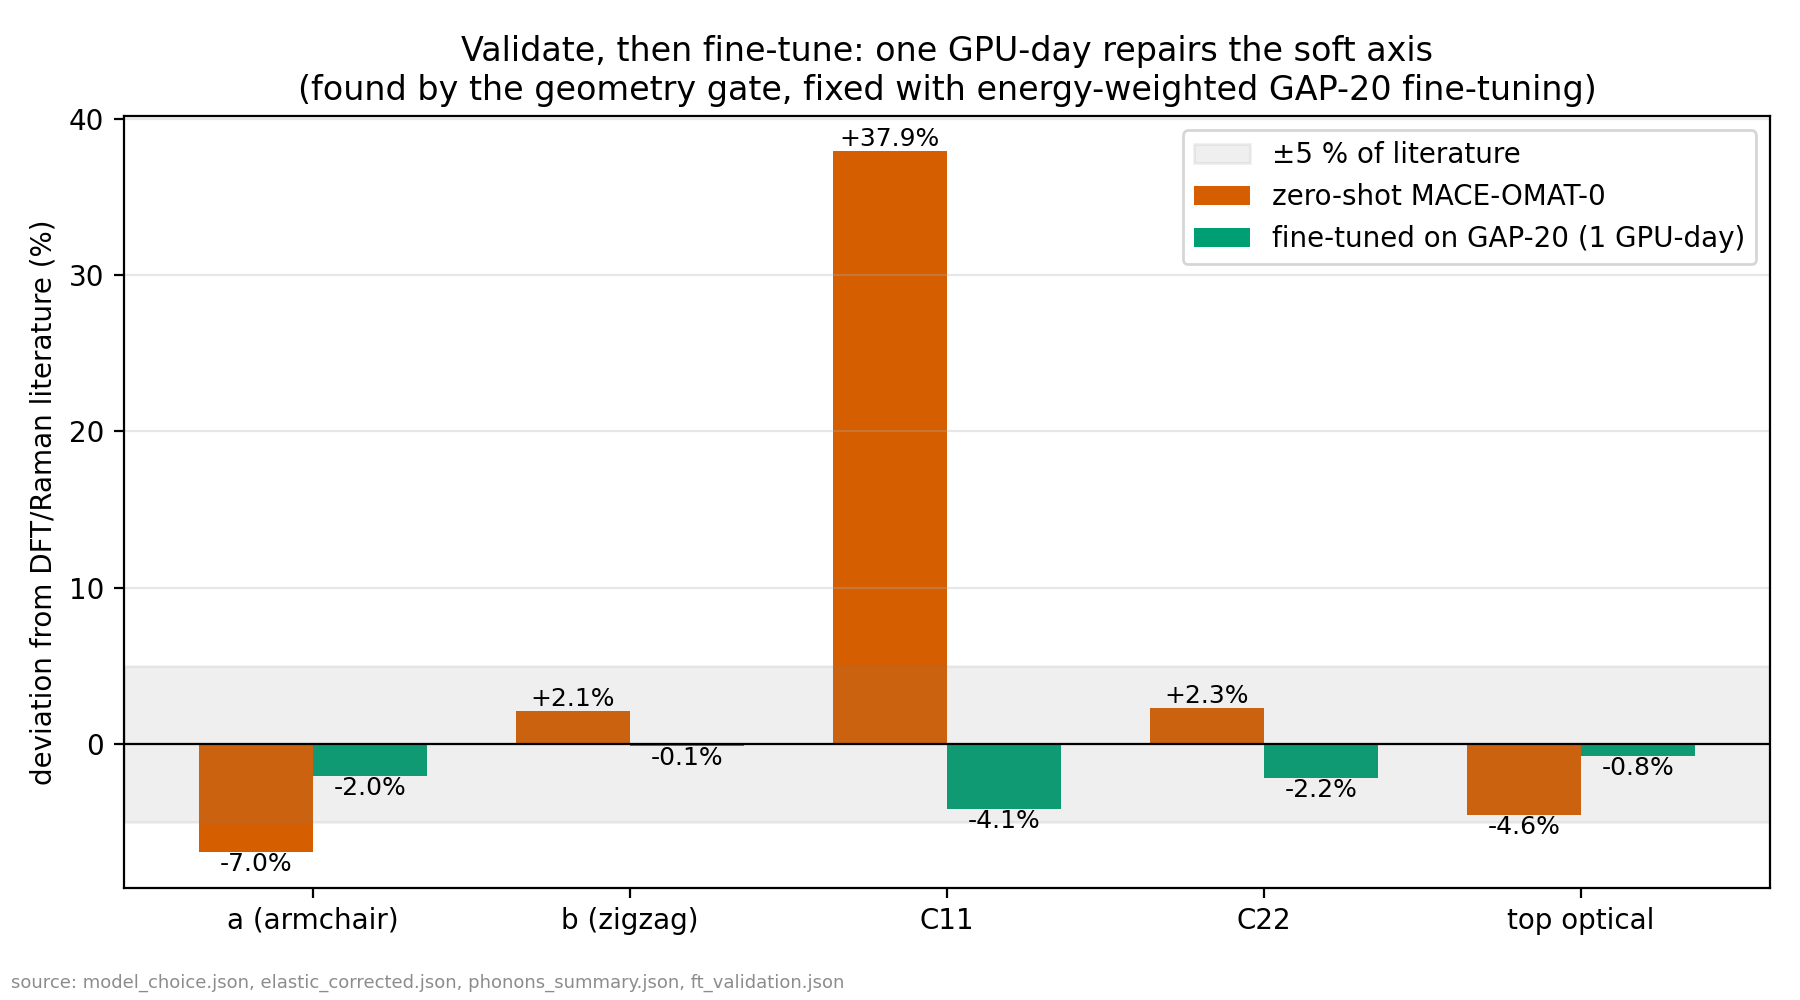
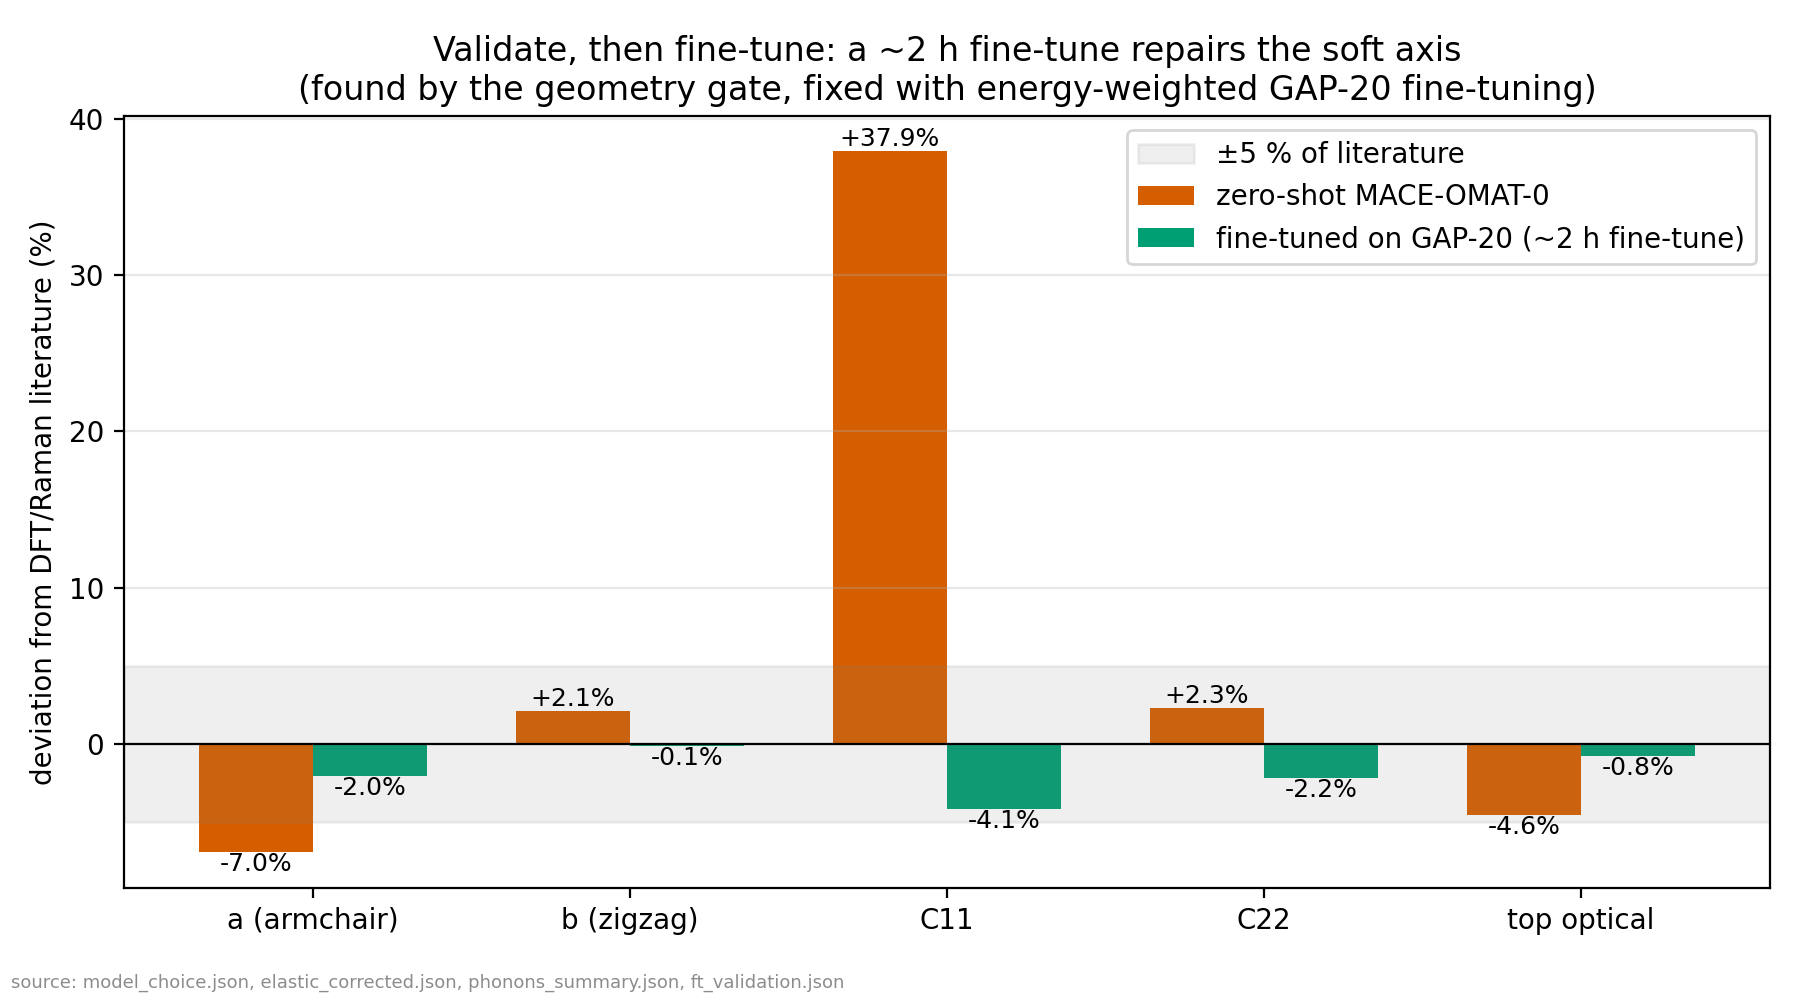
Fix figure text collisions: lift small-bar labels above bars, align model-fix title with measured ~2 h fine-tune

Changed region(s): [[0.6222, 0.124, 0.9644, 0.279], [0.2489, 0.031, 0.8089, 0.062]]

diff --git a/scripts/40_make_plots.py b/scripts/40_make_plots.py
@@ -990,8 +990,13 @@ def fig_timeshare() -> list[Path]:
         ax.bar(x, vals, 0.65, bottom=bottom, color=color, label=comp)
         bottom += vals
     for i, r in enumerate(rows):
-        ax.text(i, r["shares"][0] / 2, f"{100 * r['shares'][0]:.0f}%",
-                ha="center", va="center", fontsize=7, color="w")
+        share = r["shares"][0]
+        if share < 0.06:  # bar too small to hold its label - place above, in bar color
+            ax.text(i, share + 0.015, f"{100 * share:.0f}%",
+                    ha="center", va="bottom", fontsize=7, color="#0072B2")
+        else:
+            ax.text(i, share / 2, f"{100 * share:.0f}%",
+                    ha="center", va="center", fontsize=7, color="w")
     ax.set_xticks(x, labels, fontsize=7.5)
     ax.set_ylim(0, 1.0)
     ax.set_ylabel("share of step time")

diff --git a/scripts/42_model_fix_figure.py b/scripts/42_model_fix_figure.py
@@ -2,8 +2,8 @@
 """Before/after figure for the model-fix arc: zero-shot vs GAP-20 fine-tuned.
 
 Signed deviation from DFT/Raman literature per observable. The story in one
-frame: the zero-shot failure lives on the soft armchair axis; one GPU-day of
-energy-weighted fine-tuning brings every observable within ~5 %.
+frame: the zero-shot failure lives on the soft armchair axis; ~2 h of
+energy-weighted fine-tuning (training wall-time) brings every observable within ~5 %.
 """
 
 import json
@@ -55,7 +55,7 @@ def main() -> int:
     fig, ax = plt.subplots(figsize=(9, 5))
     ax.bar(x - w / 2, dev_b, w, label="zero-shot MACE-OMAT-0", color="#D55E00")
     ax.bar(x + w / 2, dev_a, w,
-           label="fine-tuned on GAP-20 (1 GPU-day)", color="#009E73")
+           label="fine-tuned on GAP-20 (~2 h fine-tune)", color="#009E73")
     for xi, (vb, va) in enumerate(zip(dev_b, dev_a)):
         ax.annotate(f"{vb:+.1f}%", (xi - w / 2, vb), ha="center",
                     va="bottom" if vb >= 0 else "top", fontsize=9)
@@ -66,7 +66,7 @@ def main() -> int:
     ax.set_xticks(x)
     ax.set_xticklabels(labels)
     ax.set_ylabel("deviation from DFT/Raman literature (%)")
-    ax.set_title("Validate, then fine-tune: one GPU-day repairs the soft axis\n"
+    ax.set_title("Validate, then fine-tune: a ~2 h fine-tune repairs the soft axis\n"
                  "(found by the geometry gate, fixed with energy-weighted "
                  "GAP-20 fine-tuning)")
     ax.legend()